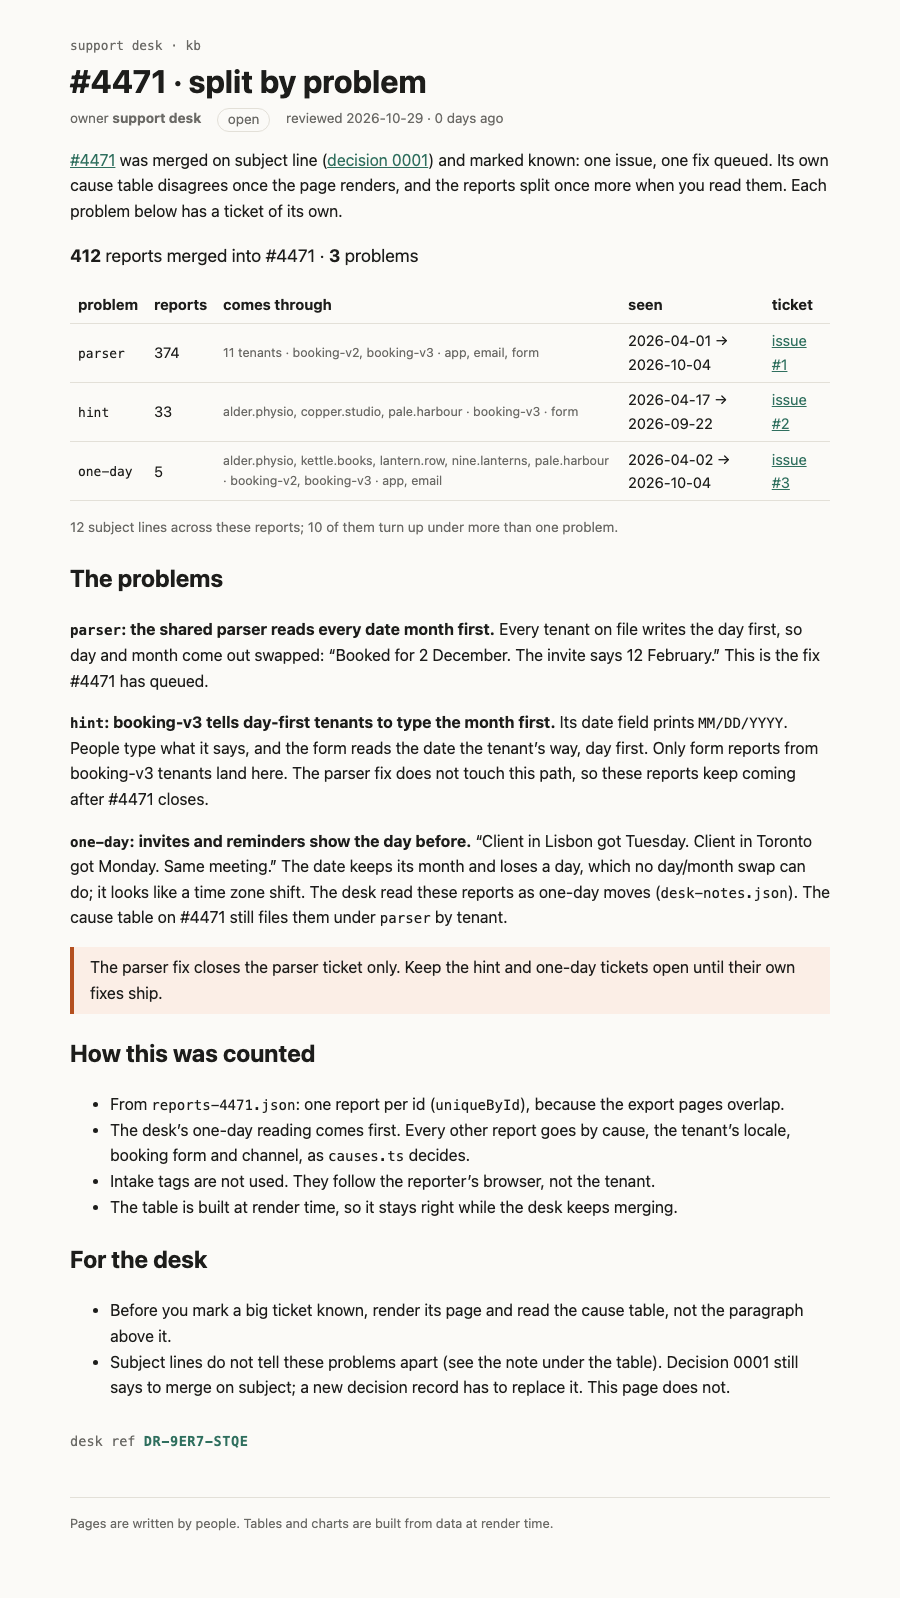
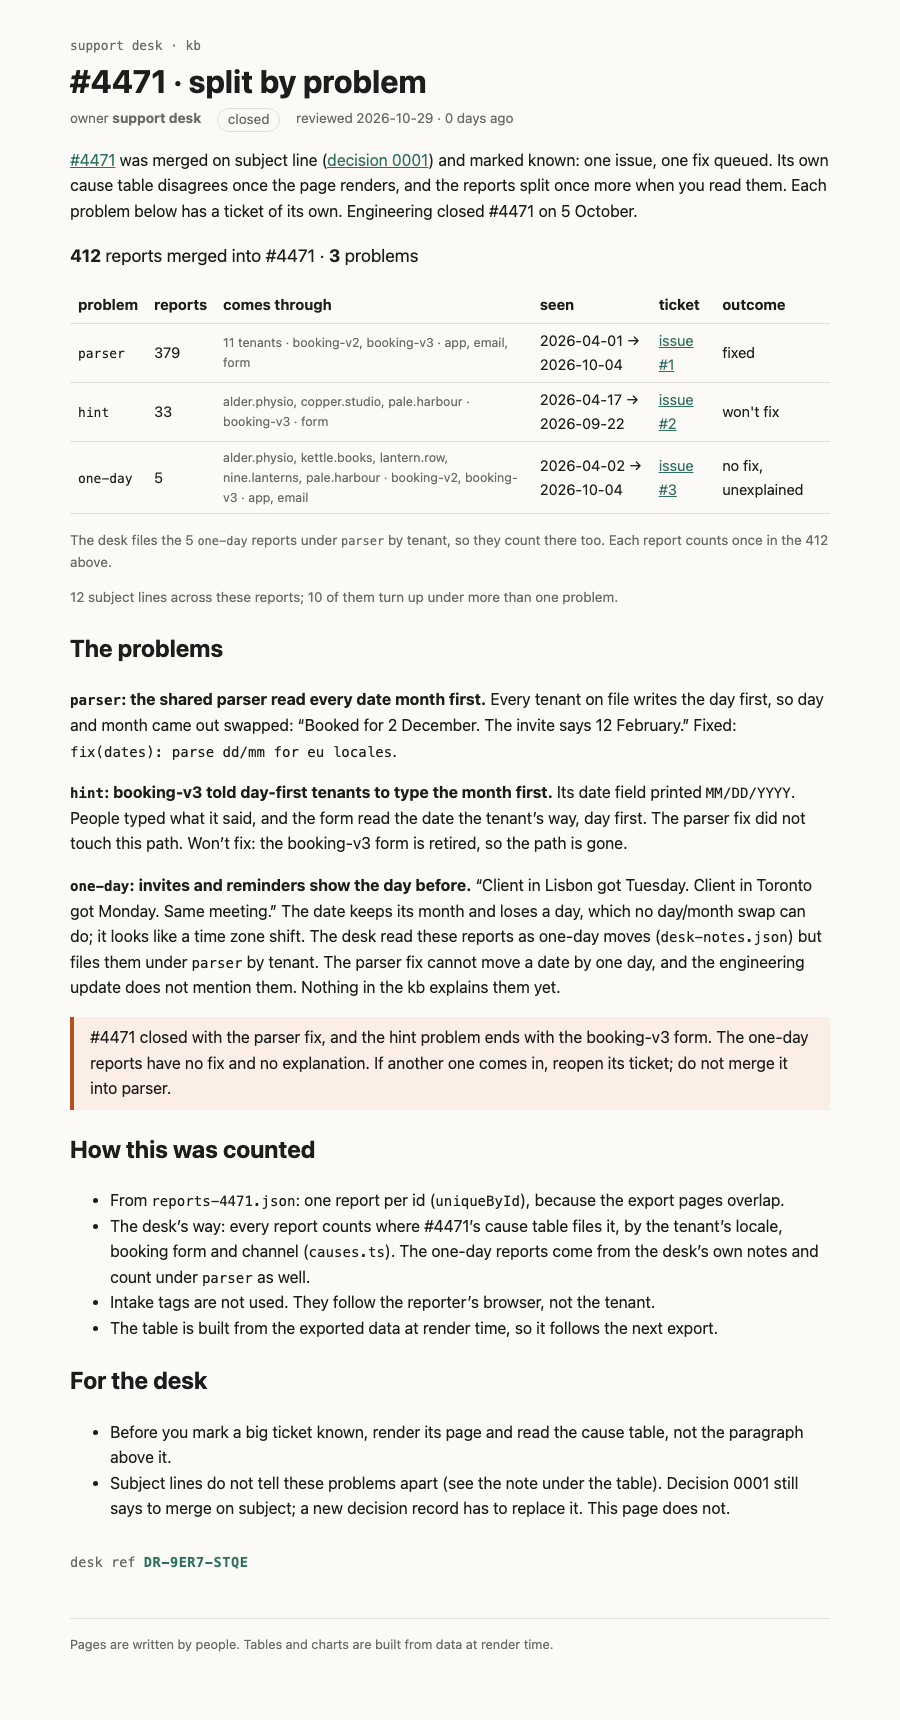
fix(kb): count #4471's problems the desk's way, record outcomes
The desk counts every report where #4471's cause table files it:
parser 379, hint 33. The 5 one-day reports (desk-notes.json) stay a
problem of their own and count under parser as well.

- problems.ts: rows from groupByCause, plus one-day with filedUnder
- ProblemTable.svelte: outcome column, filed-under note
- +page.svx: #4471 closed 2026-10-05; parser fixed, hint won't fix
  (booking-v3 form retired), one-day no fix; status closed
- rendered/: rendered again

Claude-Session: https://claude.ai/code/session_01STk1Aq6Mo3GNVuHr8HSZS1

Changed region(s): [[0.0622, 0.0, 0.9333, 0.9199], [0.0933, 0.9506, 0.6222, 0.9812]]

diff --git a/rendered/kb/incidents/4471/problems/index.html b/rendered/kb/incidents/4471/problems/index.html
@@ -35,7 +35,7 @@
   .none.svelte-3i5l1q { color: var(--warn); font-weight: 600; }
   .note.svelte-3i5l1q { color: var(--muted); font-size: 0.85em; }
 
[2 lines of base64/hex data omitted]
   aside.svelte-1r57z5f { border-left: 4px solid var(--accent); padding: 0.5rem 1rem; margin: 1rem 0; background: var(--note-bg); }
   aside.warn.svelte-1r57z5f { border-color: var(--warn); background: var(--warn-bg); }
 
@@ -47,18 +47,21 @@
[1 lines of base64/hex data omitted]
 </head>
 <body>
-<!--[--><div class="kb svelte-d02zmp"><header><a class="crumb svelte-d02zmp" href="/kb">support desk · kb</a> <h1 class="svelte-d02zmp">#4471 · split by problem</h1> <p class="meta svelte-d02zmp"><span>owner <b>support desk</b></span> <span class="status open svelte-d02zmp">open</span> <span class="svelte-d02zmp">reviewed 2026-10-29 · 0 days ago</span></p></header> <!--[-1--><!--]--> <main><p><a href="/kb/incidents/4471">#4471</a> was merged on subject line (<a href="/kb/decisions/0001-dedupe-by-subject">decision 0001</a>)
+<!--[--><div class="kb svelte-d02zmp"><header><a class="crumb svelte-d02zmp" href="/kb">support desk · kb</a> <h1 class="svelte-d02zmp">#4471 · split by problem</h1> <p class="meta svelte-d02zmp"><span>owner <b>support desk</b></span> <span class="status closed svelte-d02zmp">closed</span> <span class="svelte-d02zmp">reviewed 2026-10-29 · 0 days ago</span></p></header> <!--[-1--><!--]--> <main><p><a href="/kb/incidents/4471">#4471</a> was merged on subject line (<a href="/kb/decisions/0001-dedupe-by-subject">decision 0001</a>)
 and marked known: one issue, one fix queued. Its own cause table disagrees once the page renders, and
-the reports split once more when you read them. Each problem below has a ticket of its own.</p> <p class="sum svelte-3i5l1q"><strong>412</strong> reports merged into #4471 · <strong>3</strong> problems</p> <table><thead><tr><th>problem</th><th>reports</th><th>comes through</th><th>seen</th><th>ticket</th></tr></thead><tbody><!--[--><tr><td><code>parser</code></td><td>374</td><td class="via svelte-3i5l1q">11 tenants · booking-v2, booking-v3 · app, email, form</td><td>2026-04-01 → 2026-10-04</td><td><!--[0--><a href="https://github.com/sergiobk201/support-kb/issues/1">issue #1</a><!--]--></td></tr><tr><td><code>hint</code></td><td>33</td><td class="via svelte-3i5l1q">alder.physio, copper.studio, pale.harbour · booking-v3 · form</td><td>2026-04-17 → 2026-09-22</td><td><!--[0--><a href="https://github.com/sergiobk201/support-kb/issues/2">issue #2</a><!--]--></td></tr><tr><td><code>one-day</code></td><td>5</td><td class="via svelte-3i5l1q">alder.physio, kettle.books, lantern.row, nine.lanterns, pale.harbour · booking-v2, booking-v3 · app, email</td><td>2026-04-02 → 2026-10-04</td><td><!--[0--><a href="https://github.com/sergiobk201/support-kb/issues/3">issue #3</a><!--]--></td></tr><!--]--></tbody></table> <p class="note svelte-3i5l1q">12 subject lines across these reports; 10 of them turn up under more than one problem.</p><!----> <h2>The problems</h2> <p><strong><code>parser</code>: the shared parser reads every date month first.</strong> Every tenant on file writes the day
-first, so day and month come out swapped: “Booked for 2 December. The invite says 12 February.”
-This is the fix #4471 has queued.</p> <p><strong><code>hint</code>: booking-v3 tells day-first tenants to type the month first.</strong> Its date field prints <code>MM/DD/YYYY</code>. People type what it says, and the form reads the date the tenant’s way, day first.
-Only form reports from booking-v3 tenants land here. The parser fix does not touch this path, so
-these reports keep coming after #4471 closes.</p> <p><strong><code>one-day</code>: invites and reminders show the day before.</strong> “Client in Lisbon got Tuesday. Client in
+the reports split once more when you read them. Each problem below has a ticket of its own.
+Engineering closed #4471 on 5 October.</p> <p class="sum svelte-3i5l1q"><strong>412</strong> reports merged into #4471 · <strong>3</strong> problems</p> <table><thead><tr><th>problem</th><th>reports</th><th>comes through</th><th>seen</th><th>ticket</th><th>outcome</th></tr></thead><tbody><!--[--><tr><td><code>parser</code></td><td>379</td><td class="via svelte-3i5l1q">11 tenants · booking-v2, booking-v3 · app, email, form</td><td>2026-04-01 → 2026-10-04</td><td><!--[0--><a href="https://github.com/sergiobk201/support-kb/issues/1">issue #1</a><!--]--></td><td>fixed</td></tr><tr><td><code>hint</code></td><td>33</td><td class="via svelte-3i5l1q">alder.physio, copper.studio, pale.harbour · booking-v3 · form</td><td>2026-04-17 → 2026-09-22</td><td><!--[0--><a href="https://github.com/sergiobk201/support-kb/issues/2">issue #2</a><!--]--></td><td>won't fix</td></tr><tr><td><code>one-day</code></td><td>5</td><td class="via svelte-3i5l1q">alder.physio, kettle.books, lantern.row, nine.lanterns, pale.harbour · booking-v2, booking-v3 · app, email</td><td>2026-04-02 → 2026-10-04</td><td><!--[0--><a href="https://github.com/sergiobk201/support-kb/issues/3">issue #3</a><!--]--></td><td>no fix, unexplained</td></tr><!--]--></tbody></table> <!--[--><!--[-1--><!--]--><!--[-1--><!--]--><!--[0--><p class="note svelte-3i5l1q">The desk files the 5 <code>one-day</code> reports under <code>parser</code> by tenant, so they count there too. Each report counts once in the 412 above.</p><!--]--><!--]--> <p class="note svelte-3i5l1q">12 subject lines across these reports; 10 of them turn up under more than one problem.</p><!----> <h2>The problems</h2> <p><strong><code>parser</code>: the shared parser read every date month first.</strong> Every tenant on file writes the day
+first, so day and month came out swapped: “Booked for 2 December. The invite says 12 February.”
+Fixed: <code>fix(dates): parse dd/mm for eu locales</code>.</p> <p><strong><code>hint</code>: booking-v3 told day-first tenants to type the month first.</strong> Its date field printed <code>MM/DD/YYYY</code>. People typed what it said, and the form read the date the tenant’s way, day first.
+The parser fix did not touch this path. Won’t fix: the booking-v3 form is retired, so the path is gone.</p> <p><strong><code>one-day</code>: invites and reminders show the day before.</strong> “Client in Lisbon got Tuesday. Client in
 Toronto got Monday. Same meeting.” The date keeps its month and loses a day, which no day/month swap
 can do; it looks like a time zone shift. The desk read these reports as one-day moves
-(<code>desk-notes.json</code>). The cause table on #4471 still files them under <code>parser</code> by tenant.</p> <aside class="warn svelte-1r57z5f"><!---->The parser fix closes the parser ticket only. Keep the hint and one-day tickets open until their own
-fixes ship.<!----></aside><!----> <h2>How this was counted</h2> <ul><li>From <code>reports-4471.json</code>: one report per id (<code>uniqueById</code>), because the export pages overlap.</li> <li>The desk’s one-day reading comes first. Every other report goes by cause, the tenant’s locale,
-booking form and channel, as <code>causes.ts</code> decides.</li> <li>Intake tags are not used. They follow the reporter’s browser, not the tenant.</li> <li>The table is built at render time, so it stays right while the desk keeps merging.</li></ul> <h2>For the desk</h2> <ul><li>Before you mark a big ticket known, render its page and read the cause table, not the paragraph above it.</li> <li>Subject lines do not tell these problems apart (see the note under the table). Decision 0001 still
+(<code>desk-notes.json</code>) but files them under <code>parser</code> by tenant. The parser fix cannot move a date by one
+day, and the engineering update does not mention them. Nothing in the kb explains them yet.</p> <aside class="warn svelte-1r57z5f"><!---->#4471 closed with the parser fix, and the hint problem ends with the booking-v3 form. The one-day
+reports have no fix and no explanation. If another one comes in, reopen its ticket; do not merge it
+into parser.<!----></aside><!----> <h2>How this was counted</h2> <ul><li>From <code>reports-4471.json</code>: one report per id (<code>uniqueById</code>), because the export pages overlap.</li> <li>The desk’s way: every report counts where #4471’s cause table files it, by the tenant’s locale,
+booking form and channel (<code>causes.ts</code>). The one-day reports come from the desk’s own notes and
+count under <code>parser</code> as well.</li> <li>Intake tags are not used. They follow the reporter’s browser, not the tenant.</li> <li>The table is built from the exported data at render time, so it follows the next export.</li></ul> <h2>For the desk</h2> <ul><li>Before you mark a big ticket known, render its page and read the cause table, not the paragraph above it.</li> <li>Subject lines do not tell these problems apart (see the note under the table). Decision 0001 still
 says to merge on subject; a new decision record has to replace it. This page does not.</li></ul> <!--[0--><p class="stamp svelte-hs0wdm">desk ref <b class="svelte-hs0wdm">DR-9ER7-STQE</b></p><!--]--><!----><!----></main> <footer class="svelte-d02zmp">Pages are written by people. Tables and charts are built from data at render time.</footer></div><!--]-->
 </body>
 </html>

diff --git a/src/lib/kb/problems.ts b/src/lib/kb/problems.ts
@@ -1,14 +1,16 @@
-// The problems inside one merged ticket. causes.ts knows two causes and files every report under one
-// of them. Reports the desk read as a one-day move (desk-notes.json) are a third problem: the date
-// keeps its month and loses a day, which no day/month swap can do. They come out first; the rest go
-// by causeOf, as on the ticket's own page.
-import { causeOf, uniqueById, type Report, type Tenant } from '#lib/kb/causes';
+// The problems inside one merged ticket, counted the desk's way: every report where the ticket's
+// cause table files it (groupByCause, causes.ts). Reports the desk read as a one-day move
+// (desk-notes.json) are a problem of their own: the date keeps its month and loses a day, which no
+// day/month swap can do. The desk still files them under their tenant's cause, so they count there too.
+import { causeOf, groupByCause, uniqueById, type Report, type Tenant } from '#lib/kb/causes';
 
-export type ProblemKey = 'parser' | 'hint' | 'one-day' | 'unplaced';
+export type ProblemKey = 'parser' | 'hint' | 'unplaced' | 'one-day';
 
 export type Problem = {
   key: ProblemKey;
   reports: Report[];
+  // One-day only: the causes its reports are filed (and counted) under.
+  filedUnder: string[];
   tenants: string[];
   forms: string[];
   channels: string[];
@@ -16,46 +18,48 @@ export type Problem = {
   lastSeen: string;
 };
 
+type TenantOf = (r: Report) => Tenant | undefined;
+
 const sorted = (xs: (string | undefined)[]): string[] => [...new Set(xs.filter((x): x is string => !!x))].sort();
 
-export function problemsIn(
-  all: Report[],
-  ticket: number,
-  oneDay: readonly string[],
-  tenantOf: (r: Report) => Tenant | undefined,
-): Problem[] {
-  const byKey = new Map<ProblemKey, Report[]>();
-  for (const r of uniqueById(all)) {
-    if (r.mergedInto !== ticket) continue;
-    const key: ProblemKey = oneDay.includes(r.id) ? 'one-day' : (causeOf(r, tenantOf(r)) ?? 'unplaced');
-    byKey.set(key, [...(byKey.get(key) ?? []), r]);
+function describe(key: ProblemKey, rs: Report[], tenantOf: TenantOf, filedUnder: string[] = []): Problem {
+  const days = rs.map((r) => r.receivedAt.slice(0, 10)).sort();
+  return {
+    key,
+    reports: rs,
+    filedUnder,
+    tenants: sorted(rs.map((r) => r.tenant)),
+    forms: sorted(rs.map((r) => tenantOf(r)?.form)),
+    channels: sorted(rs.map((r) => r.channel)),
+    firstSeen: days[0],
+    lastSeen: days[days.length - 1],
+  };
+}
+
+// One report per id, as the ticket's own page keeps them.
+export function mergedInto(all: Report[], ticket: number): Report[] {
+  return uniqueById(all).filter((r) => r.mergedInto === ticket);
+}
+
+export function problemsIn(merged: Report[], oneDay: readonly string[], tenantOf: TenantOf): Problem[] {
+  const rows = groupByCause(merged, tenantOf).map((g) => describe(g.cause, g.reports, tenantOf));
+  const moved = merged.filter((r) => oneDay.includes(r.id));
+  if (moved.length > 0) {
+    rows.push(describe('one-day', moved, tenantOf, sorted(moved.map((r) => causeOf(r, tenantOf(r)) ?? 'unplaced'))));
   }
-  return [...byKey.entries()]
-    .map(([key, rs]) => {
-      const days = rs.map((r) => r.receivedAt.slice(0, 10)).sort();
-      return {
-        key,
-        reports: rs,
-        tenants: sorted(rs.map((r) => r.tenant)),
-        forms: sorted(rs.map((r) => tenantOf(r)?.form)),
-        channels: sorted(rs.map((r) => r.channel)),
-        firstSeen: days[0],
-        lastSeen: days[days.length - 1],
-      };
-    })
-    .sort((a, b) => b.reports.length - a.reports.length);
+  return rows;
 }
 
 // Subject lines under more than one problem, normalized the way decision 0001 matches them
 // (lowercase, no punctuation): why a merge on subject took every problem into one ticket.
-export function sharedSubjects(problems: Problem[]): { subjects: number; shared: number } {
+// Each report counts once here: one-day first, every other report by its cause.
+export function sharedSubjects(merged: Report[], oneDay: readonly string[], tenantOf: TenantOf): { subjects: number; shared: number } {
   const norm = (s: string) => s.toLowerCase().replace(/[^\p{L}\p{N}\s]/gu, '').replace(/\s+/g, ' ').trim();
-  const keysBySubject = new Map<string, Set<ProblemKey>>();
-  for (const p of problems) {
-    for (const r of p.reports) {
-      const s = norm(r.subject);
-      keysBySubject.set(s, (keysBySubject.get(s) ?? new Set<ProblemKey>()).add(p.key));
-    }
+  const keysBySubject = new Map<string, Set<string>>();
+  for (const r of merged) {
+    const key = oneDay.includes(r.id) ? 'one-day' : (causeOf(r, tenantOf(r)) ?? 'unplaced');
+    const s = norm(r.subject);
+    keysBySubject.set(s, (keysBySubject.get(s) ?? new Set<string>()).add(key));
   }
   return { subjects: keysBySubject.size, shared: [...keysBySubject.values()].filter((k) => k.size > 1).length };
 }

diff --git a/src/lib/kb/ProblemTable.svelte b/src/lib/kb/ProblemTable.svelte
@@ -3,14 +3,23 @@
   import notes from '#lib/data/desk-notes.json';
   import type { Report } from '#lib/kb/causes';
   import { tenantOf } from '#lib/kb/locales';
-  import { problemsIn, sharedSubjects, type Problem, type ProblemKey } from '#lib/kb/problems';
+  import { mergedInto, problemsIn, sharedSubjects, type Problem, type ProblemKey } from '#lib/kb/problems';
 
-  // One row per problem inside a merged ticket (problems.ts), each with the ticket filed for it.
-  let { ticket, tickets = {} }: { ticket: number; tickets?: Partial<Record<ProblemKey, string>> } = $props();
+  // One row per problem inside a merged ticket, counted the desk's way (problems.ts), with the
+  // ticket filed for it and how that ticket ended.
+  let {
+    ticket,
+    tickets = {},
+    outcome = {},
+  }: {
+    ticket: number;
+    tickets?: Partial<Record<ProblemKey, string>>;
+    outcome?: Partial<Record<ProblemKey, string>>;
+  } = $props();
 
-  const problems = $derived(problemsIn(reports as Report[], ticket, notes.oneDayMove, tenantOf));
-  const total = $derived(problems.reduce((n, p) => n + p.reports.length, 0));
-  const subjects = $derived(sharedSubjects(problems));
+  const merged = $derived(mergedInto(reports as Report[], ticket));
+  const problems = $derived(problemsIn(merged, notes.oneDayMove, tenantOf));
+  const subjects = $derived(sharedSubjects(merged, notes.oneDayMove, tenantOf));
 
   // Name the tenants when there are few, count them when there are many.
   const via = (p: Problem) =>
@@ -19,14 +28,14 @@
 </script>
 
 <p class="sum">
-  <strong>{total}</strong> reports merged into #{ticket} ·
+  <strong>{merged.length}</strong> reports merged into #{ticket} ·
   <strong>{problems.length}</strong>
   {problems.length === 1 ? 'problem' : 'problems'}
 </p>
 
 <table>
   <thead>
-    <tr><th>problem</th><th>reports</th><th>comes through</th><th>seen</th><th>ticket</th></tr>
+    <tr><th>problem</th><th>reports</th><th>comes through</th><th>seen</th><th>ticket</th><th>outcome</th></tr>
   </thead>
   <tbody>
     {#each problems as p (p.key)}
@@ -43,10 +52,20 @@
             <span class="none">no ticket yet</span>
           {/if}
         </td>
+        <td>{outcome[p.key] ?? 'open'}</td>
       </tr>
     {/each}
   </tbody>
 </table>
+
+{#each problems as p (p.key)}
+  {#if p.filedUnder.length}
+    <p class="note">
+      The desk files the {p.reports.length} <code>{p.key}</code> reports under <code>{p.filedUnder.join(', ')}</code>
+      by tenant, so they count there too. Each report counts once in the {merged.length} above.
+    </p>
+  {/if}
+{/each}
 
 <p class="note">
   {subjects.subjects} subject lines across these reports; {subjects.shared} of them turn up under more than one problem.
